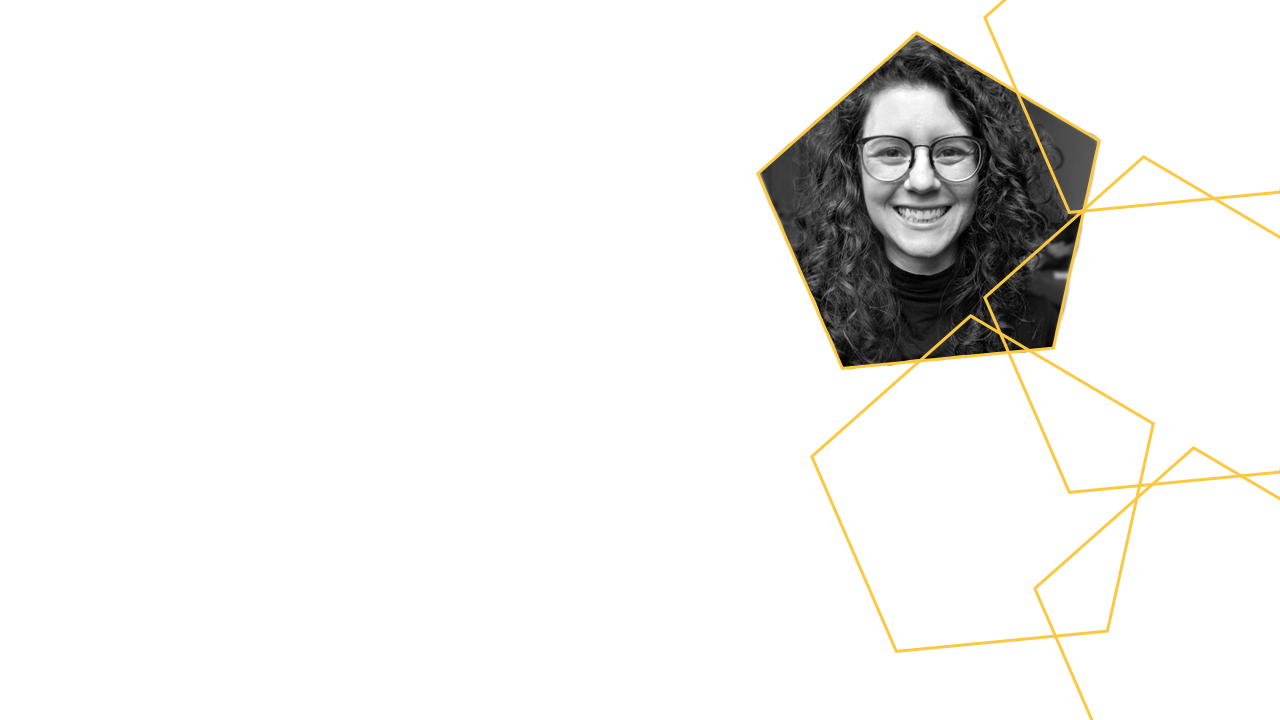
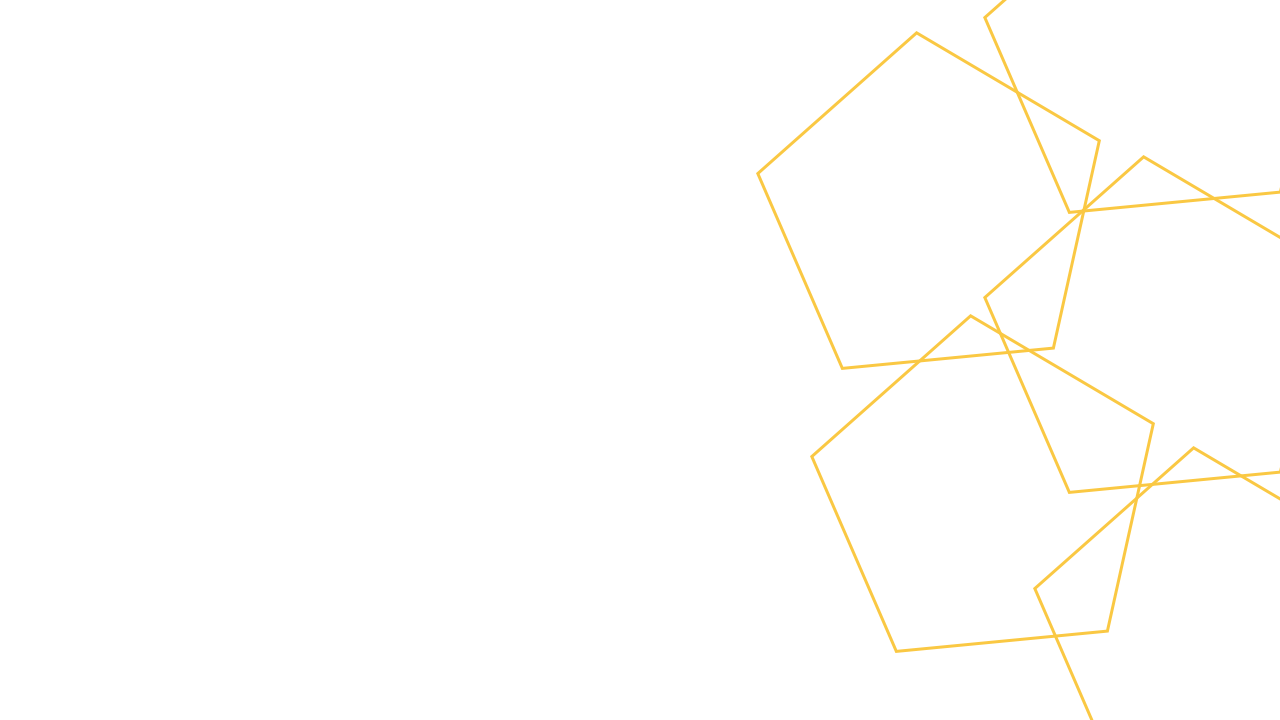
update background2 and hover state of arrow

Changed region(s): [[0.5938, 0.0611, 0.875, 0.5194]]

diff --git a/css/main.scss b/css/main.scss
@@ -4,7 +4,7 @@ $body-font: 'Roboto', sans-serif;
 
 $yellow: #fac843;
 
-.container-fluid{
+/*.container-fluid{
 	padding-right: 0;
 	padding-left: 0;
 }
@@ -12,13 +12,14 @@ $yellow: #fac843;
 .row{
 	margin-left: 0;
 	margin-right: 0;
-}
+}*/
 
 header{
 	height: 100vh;
 	width: 100%;
 	background-image: url('../images/background.png');
 	background-size: cover;	
+	text-align: center;
 
 /*	.logo{
 		display: block;
@@ -31,6 +32,7 @@ header{
 body {
 	font-family: $body-font;
 	color: #000;
+	margin: auto 0;
 }
 
 button {
@@ -60,12 +62,11 @@ h1 {
 
 .fa-arrow-circle-down {
 	font-size: 4vw;
-	text-align: center;
-	display: block !important;
 	padding-top: 4vw;
 
 	&:hover {
 		color: $yellow;
+		cursor: pointer;
 	}
 }
 
@@ -101,6 +102,7 @@ h1 {
 
 .fa-linkedin, .fa-envelope {
 	color: #000;
+
 	&:hover {
 		color: $yellow;
 	}

diff --git a/css/main.css b/css/main.css
@@ -1,18 +1,18 @@
-.container-fluid {
-  padding-right: 0;
-  padding-left: 0;
+/*.container-fluid{
+	padding-right: 0;
+	padding-left: 0;
 }
 
-.row {
-  margin-left: 0;
-  margin-right: 0;
-}
-
+.row{
+	margin-left: 0;
+	margin-right: 0;
+}*/
 header {
   height: 100vh;
   width: 100%;
   background-image: url("../images/background.png");
   background-size: cover;
+  text-align: center;
   /*	.logo{
   		display: block;
   		width: 50%;
@@ -24,6 +24,7 @@ header {
 body {
   font-family: "Roboto", sans-serif;
   color: #000;
+  margin: auto 0;
 }
 
 button {
@@ -53,12 +54,11 @@ h1 {
 
 .fa-arrow-circle-down {
   font-size: 4vw;
-  text-align: center;
-  display: block !important;
   padding-top: 4vw;
 }
 .fa-arrow-circle-down:hover {
   color: #fac843;
+  cursor: pointer;
 }
 
 .about {
